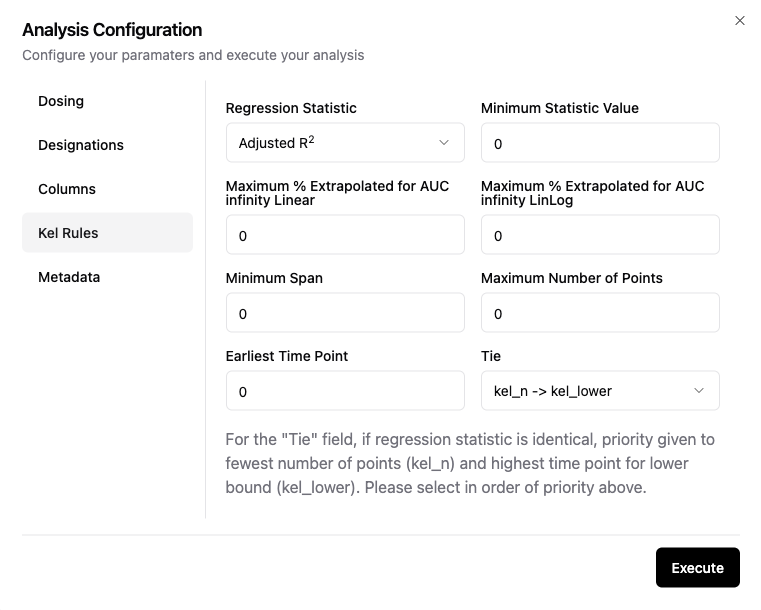
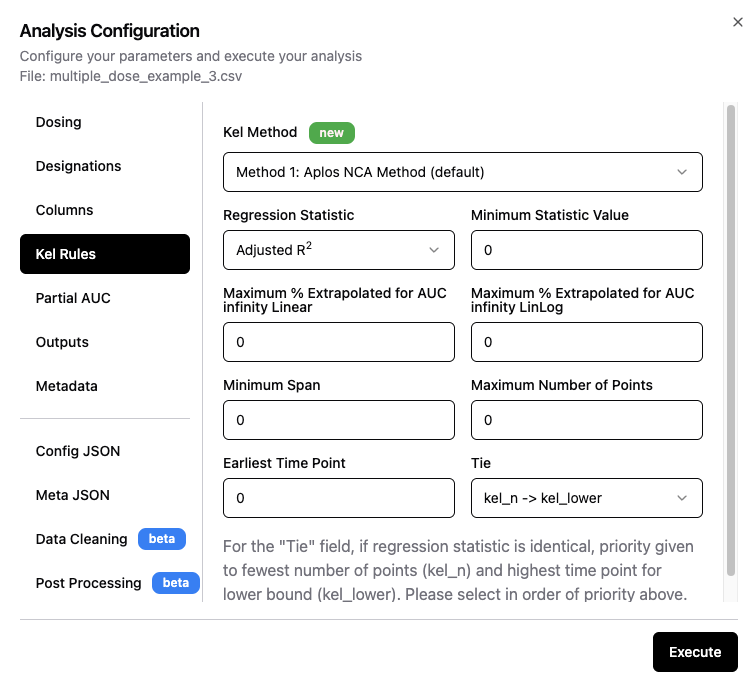
✨ Update kel methods
NE-878

diff --git a/docs/methods/terminalslope.md b/docs/methods/terminalslope.md
@@ -4,11 +4,17 @@ Terminal slope values are calculated using simple linear regression with the x-v
 
 Other software packages require the user to individually select data points to be included in the terminal slope calculation. Or the user must provide algorithm settings to define a "best" set of data points for the calculation of the terminal slope. And then a single terminal slope parameter is calculated. 
 
-The Aplos NCA takes a different approach and calculates multiple terminal slope values for each unique profile. Based on the algorithm settings to define the "best" terminal slope estimate, a single terminal slope for each unique profile is included in data summaries; however, all terminal slope values and all pharmacokinetic paramaters associated with each terminal slope value are returned to the user should they want to explore alternate values for terminal slope.
+The Aplos NCA takes a different approach and calculates multiple terminal slope values for each unique profile. Based on the algorithm settings to define the "best" terminal slope estimate, a single terminal slope for each unique profile is included in data summaries; however, all terminal slope values and all pharmacokinetic parameters associated with each terminal slope value are returned to the user should they want to explore alternate values for terminal slope.
 
-## How Many Terminal Slopes are Calculated?
+Within Aplos NCA there are 3 separate methods that can be used to determine the "best" terminal slope parameter for each profile. These are:
 
-The number of terminal slope values is determined using the concentration values from Clast to Cmax (or C0 for IV bolus administration). Assuming that the number of samples, including Clast and Cmax (or C0) are represented by $n$, the number of terminal slopes calculated is determined by the following equation:
+*   Method 1: Aplos NCA Method (default)
+*   Method 2: Aplos NCA Method excluding Cmax
+*   Method 3: Excluding Cmax and Including Clast
+
+## Method 1: Aplos NCA Method
+
+The default, or Aplos NCA Method will be used if no method is specified. In this method, the number of terminal slope values is determined using the concentration values from Clast to Cmax (or C0 for IV bolus administration). Assuming that the number of samples, including Clast and Cmax (or C0) are represented by $n$, the number of terminal slopes calculated is determined by the following equation:
 
 \# of groups = $(n-2) + (n-3)$
 
@@ -22,18 +28,26 @@ The value $(n-3)$ represents the number of terminal slope values that can be cal
 
 In the example plots above, there are 8 data points from Cmax to Clast. There will be 11 terminal slope calculations performed for this one profile. For each of those 11 terminal slope calculations, all associated pharmacokinetic parameters (e.g. AUC infinity) will be calculated. 
 
+## Method 2: Aplos NCA Method excluding Cmax
+
+This method is identical to Method 1, except Cmax is excluded from the calculations, except when the route of administration is intravenous bolus. Thus, using the example above, there would be 9 terminal slope calculations (instead of 11). 
+
+## Method 3: Excluding Cmax and Including Clast
+
+This method is similar to Method 2 because Cmax is excluded from calculations (except when the route of administration is intraveous bolus). However, only terminal slopes that include Clast are included. Therefore, using the example noted above, there woudl be 5 terminal slope calculations. These would correspond to those from the first group shown for Method 1, excluding the one that included Cmax.
+
 ## Selection of Best Terminal Slope
 
 Although multiple terminal slope values are calculated for each unique profile, a single terminal slope value is considered the best option based on criteria supplied by the user. The criteria are followed in sequential order until there is either a single terminal slope value reported for each unique profile. It is possible that none of the terminal slopes will meet all of the required criteria and thus no terminal slope will be reported for that unique profile. If a terminal slope value is not reported for a profile, none of the parameters that depends on the terminal slope will be reported for that unique profile. 
 
-Using the criteria listed below, the "best" terminal slope value is reported for each unique profile in data listings and summaries. All other terminal slope values are reported in the raw results for each unique profile.
+Using the criteria listed below, the "best" terminal slope value is reported for each unique profile in data listings and summaries. All other terminal slope values are reported in the raw results for each unique profile. Negative values for kel (i.e. increasing concentrations) are reported in the output, but not selected as a "best" terminal slope.
 
 | Position | Rule | Default | Options |
 | :---: | :--- | :--- | :--- |
 | 1 | Regression statistic used | Adjusted r<sup>2</sup> | r<sup>2</sup> |
 | 2 | Minimum statistic value | 0 (not used) | Any value >0 and <1. |
-| 3 | Maximum extrapolation for AUC infinity linear | 0 (not used) | Any value between 0 and 100. |
-| 4 | Maximum extrapolation for AUC infinity linlog | 0 (not used) | Any value between 0 and 100. |
+| 3 | Maximum extrapolation for AUC infinity linear | 0 (not used) | Any value between 0 and 1 (i.e. 0.25 = 25%). |
+| 4 | Maximum extrapolation for AUC infinity linlog | 0 (not used) | Any value between 0 and 1 (i.e. 0.25 = 25%). |
 | 5 | Maximum span | 0 (not used) | Any value &#8805;0. |
 | 6 | Maximum number of points | 0 (not used) | Any value &#8805;0. |
 | 7 | Earliest time value | 0 (not used) | Any value >0 |

diff --git a/docs/methods/config-kel.md b/docs/methods/config-kel.md
@@ -10,10 +10,11 @@ The best-fit rate constant must meet all of the criteria specified. If multiple 
 ## Description of input fields
 |Field name|Description|
 |:---|:---|
+|Kel Method|Method for selection of points included in the calculation of the terminal elimination rate constant. A description of the methods can be found [here](./terminalslope).
 |Regression statistic|Choose either r<sup>2</sup> or adjusted r<sup>2</sup>. The default is [adjusted r<sup>2</sup>](#adjusted-r2-calculation) as it gives a small penalty for each additional time point included in the regression.|
 |Minimum statistic value|The chosen statistic must be greater than this value. Default is 0, meaning it is not used. Number must be less than 1.|
-|Maximum % extrapolated for AUC<sub>infinity</sub> Linear|The % extrapolated for the AUC<sub>infinity</sub> calculated using the linear method must be less than this value. Default is 0, meaning it is not used. Number must be greater than 0 and less than 100.|
-|Maximum % extrapolated for AUC<sub>infinity</sub> LinLog|The % extrapolated for the AUC<sub>infinity</sub> calculated using the linear up log down method must be less than this value. Default is 0, meaning it is not used. Number must be greater than 0 and less than 100.|
+|Maximum % extrapolated for AUC<sub>infinity</sub> Linear|The % extrapolated for the AUC<sub>infinity</sub> calculated using the linear method must be less than this value. Default is 0, meaning it is not used. Number must be greater than 0 and less than 1 (i.e. 0.25 = 25%).|
+|Maximum % extrapolated for AUC<sub>infinity</sub> LinLog|The % extrapolated for the AUC<sub>infinity</sub> calculated using the linear up log down method must be less than this value. Default is 0, meaning it is not used. Number must be greater than 0 and less than 1 (i.e. 0.25 = 25%).|
 |Minimum Span|Minimum value for the Span variable. Default is 0, meaning it is not used. Any values greater than 0 are accepted.|
 |Maximum number of points|Maximum number of time points permitted in the regression. Default is 0, meaning it is not used. Any values greater than 0 are accepted. Note that all regressions have a minimum of 3 data points.|
 |Earliest time point|Earliest time point included in the regression. Default is 0, meaning it is not used.|
